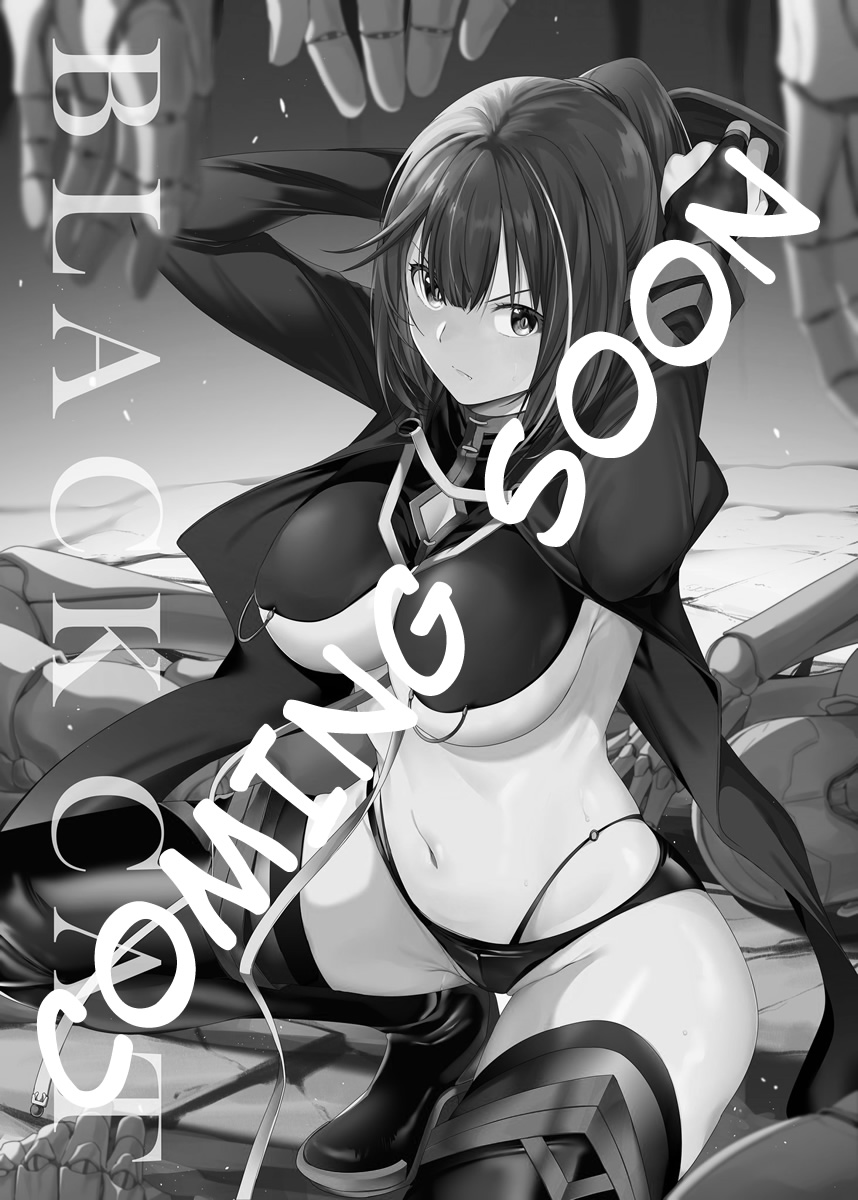
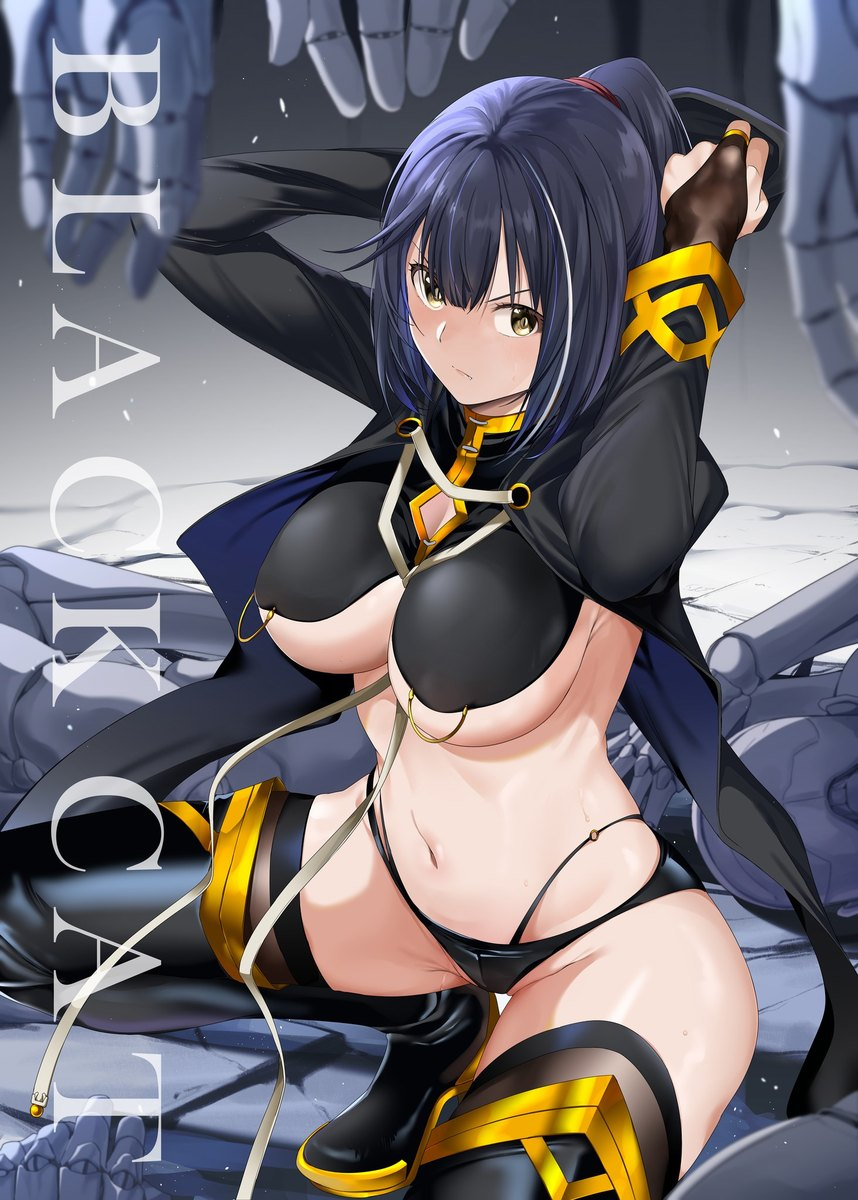
publish the little black cat's chapter

diff --git a/projects/little-witch-nobeta/assets/aniesu.min.js b/projects/little-witch-nobeta/assets/aniesu.min.js
@@ -1,1 +1,1 @@
-!function(e,i){"use strict";if(e.Aniesu={active:!1,current:{ch:1,pg:1},chapter:{1:6,2:6,3:6,4:6,5:1},createViewer:function(){if(Aniesu.viewer)return!1;var e=i.createElement("DIV");e.id="aniesu_viewer",e.innerHTML='<div id="aniesu_viewer_prev" onclick="Aniesu.prev();"></div><div id="aniesu_viewer_next" onclick="Aniesu.next();"></div><div id="aniesu_viewer_src"></div><div id="aniesu_viewer_page" tabindex="0" onclick="Aniesu.hideHeader();"></div><div id="aniesu_viewer_head"><div id="aniesu_viewer_close" onclick="Aniesu.close();" title="Close manga viewer"></div><div id="aniesu_viewer_title"><div id="aniesu_viewer_manga_title">Little Witch Nobeta</div><div id="aniesu_viewer_chapter_title">Wanderer in the Dream</div></div><a id="aniesu_viewer_twitter" href="https://twitter.com/intent/tweet?hashtags=%E3%82%A2%E3%83%8B%E3%82%A8%E3%82%B9%E3%81%AE%E6%B5%81%E5%84%80&text=Kuro%20no%20Kiseki%3A%20Agnes\'%20Style%20-%20Chapter%201&url=https%3A%2F%2Fsethclydesdale.github.io%2Fprojects%2Fagnes-style%2F%3Fchapter%3D1" target="_blank" title="Share current chapter to Twitter"></a></div>',i.body.appendChild(e),Aniesu.viewer={body:e,ch_title:i.getElementById("aniesu_viewer_chapter_title"),page:i.getElementById("aniesu_viewer_page"),prev:i.getElementById("aniesu_viewer_prev"),next:i.getElementById("aniesu_viewer_next"),src:i.getElementById("aniesu_viewer_src"),twitter:i.getElementById("aniesu_viewer_twitter")}},open:function(e,t,n){Aniesu.active=!0,Aniesu.current={ch:e,pg:t},Aniesu.preloadPages(e),e>1&&Aniesu.preloadPages(e-1),n||Aniesu.updateURL(e),Aniesu.viewer?Aniesu.viewer.body.style.display="":Aniesu.createViewer(),i.body.style.overflow="hidden",Aniesu.updateShareLink(),Aniesu.setTitle(),Aniesu.viewer.page.style.backgroundImage="url(chapters/read/chapter-"+e+"/"+t+".jpg)",Aniesu.viewer.src.innerHTML="",Aniesu.viewer.page.focus(),Aniesu.hideHeader()},close:function(e){Aniesu.active=!1,Aniesu.viewer.body.style.display="none",i.body.style.overflow="",e||Aniesu.updateURL()},setTitle:function(){Aniesu.viewer.ch_title.innerHTML=1==Aniesu.current.ch?"Wanderer in the Dream (Preview)":2==Aniesu.current.ch?"Tania's Chapter (Preview)":3==Aniesu.current.ch?"Monica's Chapter (Preview)":4==Aniesu.current.ch?"Vanessa's Chapter (Preview)":5==Aniesu.current.ch?"The Little Black Cat (Preview)":"Chapter "+Aniesu.current.ch},next:function(){Aniesu.chapter[Aniesu.current.ch]&&++Aniesu.current.pg>Aniesu.chapter[Aniesu.current.ch]&&(Aniesu.chapter[++Aniesu.current.ch]?(Aniesu.current.pg=1,Aniesu.updateShareLink(),Aniesu.setTitle(),Aniesu.updateURL(Aniesu.current.ch)):(Aniesu.current.ch--,Aniesu.current.pg--,alert("You've reached the end of the previews! You can download the full chapters on the main page by closing the manga viewer! You can do that by clicking the middle of the screen and then the X on the top left."))),Aniesu.current.pg==Aniesu.chapter[Aniesu.current.ch]&&Aniesu.preloadPages(Aniesu.current.ch+1),Aniesu.chapter[Aniesu.current.ch]&&(Aniesu.viewer.page.style.backgroundImage="url(chapters/read/chapter-"+Aniesu.current.ch+"/"+Aniesu.current.pg+".jpg)"),9==Aniesu.current.ch&&Aniesu.current.pg>1?Aniesu.viewer.src.innerHTML='<a href="'+Aniesu.art[Aniesu.current.pg]+'" target="_blank"><i class="fa">&#xf099;</i> View on Twitter</a>':Aniesu.viewer.src.innerHTML=""},prev:function(){Aniesu.chapter[Aniesu.current.ch]&&--Aniesu.current.pg<1&&(Aniesu.chapter[--Aniesu.current.ch]?(Aniesu.preloadPages(),Aniesu.current.pg=Aniesu.chapter[Aniesu.current.ch],Aniesu.updateShareLink(),Aniesu.setTitle(),Aniesu.updateURL(Aniesu.current.ch)):(Aniesu.current.ch++,Aniesu.current.pg++,alert("This goes to the previous page! Click on the right side of the screen to show the next page. Click the middle of the page to show the top bar."))),1==Aniesu.current.pg&&Aniesu.preloadPages(Aniesu.current.ch-1),Aniesu.chapter[Aniesu.current.ch]&&(Aniesu.viewer.page.style.backgroundImage="url(chapters/read/chapter-"+Aniesu.current.ch+"/"+Aniesu.current.pg+".jpg)"),9==Aniesu.current.ch&&Aniesu.current.pg>1?Aniesu.viewer.src.innerHTML='<a href="'+Aniesu.art[Aniesu.current.pg]+'" target="_blank"><i class="fa">&#xf099;</i> View on Twitter</a>':Aniesu.viewer.src.innerHTML=""},preloadPages:function(e){if(Aniesu.chapter[e])for(var i=Aniesu.chapter[e]+1;i-- >1;)Aniesu.preload("chapters/read/chapter-"+e+"/"+i+".jpg")},preload:function(e){(new Image).src=e},hideHeader:function(e){Aniesu.timeout&&clearTimeout(Aniesu.timeout),Aniesu.timeout=setTimeout(function(){Aniesu.viewer.page.blur(),delete Aniesu.timeout},3e3)},updateShareLink:function(){Aniesu.viewer.twitter.href="https://twitter.com/intent/tweet?hashtags=%E3%82%A2%E3%83%8B%E3%82%A8%E3%82%B9%E3%81%AE%E6%B5%81%E5%84%80&text=Kuro%20no%20Kiseki%3A%20Agnes'%20Style%20-%20"+(9==Aniesu.current.ch?"Bonus%20Illustrations":"Chapter%20"+Aniesu.current.ch)+"&url=https%3A%2F%2Fsethclydesdale.github.io%2Fprojects%2Fagnes-style%2F%3Fchapter%3D"+Aniesu.current.ch},updateURL:function(t){e.history&&e.history.pushState&&e.history.pushState({},i.title,e.location.href.replace(e.location.hash,"").replace(e.location.search,"")+(t?"?chapter="+t:""))}},/chapter=\d+/i.test(e.location.search)){var t=Number(e.location.search.replace(/.*?chapter=(\d+).*/i,"$1"));Aniesu.chapter[t]&&Aniesu.open(t,1,!0)}i.addEventListener("keydown",function(e){if(Aniesu.active)switch(e.key.toLowerCase()){case"left":case"arrowleft":Aniesu.prev();break;case"right":case"arrowright":Aniesu.next();break;case"esc":case"escape":Aniesu.close()}}),e.onpopstate=function(){if(/chapter=\d+/i.test(e.location.search)){var i=Number(e.location.search.replace(/.*?chapter=(\d+).*/i,"$1"));Aniesu.chapter[i]&&Aniesu.open(i,1,!0)}else Aniesu.active&&Aniesu.close(!0)}}(window,document);
+!function(e,i){"use strict";if(e.Aniesu={active:!1,current:{ch:1,pg:1},chapter:{1:6,2:6,3:6,4:6,5:6},createViewer:function(){if(Aniesu.viewer)return!1;var e=i.createElement("DIV");e.id="aniesu_viewer",e.innerHTML='<div id="aniesu_viewer_prev" onclick="Aniesu.prev();"></div><div id="aniesu_viewer_next" onclick="Aniesu.next();"></div><div id="aniesu_viewer_src"></div><div id="aniesu_viewer_page" tabindex="0" onclick="Aniesu.hideHeader();"></div><div id="aniesu_viewer_head"><div id="aniesu_viewer_close" onclick="Aniesu.close();" title="Close manga viewer"></div><div id="aniesu_viewer_title"><div id="aniesu_viewer_manga_title">Little Witch Nobeta</div><div id="aniesu_viewer_chapter_title">Wanderer in the Dream</div></div><a id="aniesu_viewer_twitter" href="https://twitter.com/intent/tweet?hashtags=%E3%82%A2%E3%83%8B%E3%82%A8%E3%82%B9%E3%81%AE%E6%B5%81%E5%84%80&text=Kuro%20no%20Kiseki%3A%20Agnes\'%20Style%20-%20Chapter%201&url=https%3A%2F%2Fsethclydesdale.github.io%2Fprojects%2Fagnes-style%2F%3Fchapter%3D1" target="_blank" title="Share current chapter to Twitter"></a></div>',i.body.appendChild(e),Aniesu.viewer={body:e,ch_title:i.getElementById("aniesu_viewer_chapter_title"),page:i.getElementById("aniesu_viewer_page"),prev:i.getElementById("aniesu_viewer_prev"),next:i.getElementById("aniesu_viewer_next"),src:i.getElementById("aniesu_viewer_src"),twitter:i.getElementById("aniesu_viewer_twitter")}},open:function(e,t,n){Aniesu.active=!0,Aniesu.current={ch:e,pg:t},Aniesu.preloadPages(e),e>1&&Aniesu.preloadPages(e-1),n||Aniesu.updateURL(e),Aniesu.viewer?Aniesu.viewer.body.style.display="":Aniesu.createViewer(),i.body.style.overflow="hidden",Aniesu.updateShareLink(),Aniesu.setTitle(),Aniesu.viewer.page.style.backgroundImage="url(chapters/read/chapter-"+e+"/"+t+".jpg)",Aniesu.viewer.src.innerHTML="",Aniesu.viewer.page.focus(),Aniesu.hideHeader()},close:function(e){Aniesu.active=!1,Aniesu.viewer.body.style.display="none",i.body.style.overflow="",e||Aniesu.updateURL()},setTitle:function(){Aniesu.viewer.ch_title.innerHTML=1==Aniesu.current.ch?"Wanderer in the Dream (Preview)":2==Aniesu.current.ch?"Tania's Chapter (Preview)":3==Aniesu.current.ch?"Monica's Chapter (Preview)":4==Aniesu.current.ch?"Vanessa's Chapter (Preview)":5==Aniesu.current.ch?"The Little Black Cat (Preview)":"Chapter "+Aniesu.current.ch},next:function(){Aniesu.chapter[Aniesu.current.ch]&&++Aniesu.current.pg>Aniesu.chapter[Aniesu.current.ch]&&(Aniesu.chapter[++Aniesu.current.ch]?(Aniesu.current.pg=1,Aniesu.updateShareLink(),Aniesu.setTitle(),Aniesu.updateURL(Aniesu.current.ch)):(Aniesu.current.ch--,Aniesu.current.pg--,alert("You've reached the end of the previews! You can download the full chapters on the main page by closing the manga viewer! You can do that by clicking the middle of the screen and then the X on the top left."))),Aniesu.current.pg==Aniesu.chapter[Aniesu.current.ch]&&Aniesu.preloadPages(Aniesu.current.ch+1),Aniesu.chapter[Aniesu.current.ch]&&(Aniesu.viewer.page.style.backgroundImage="url(chapters/read/chapter-"+Aniesu.current.ch+"/"+Aniesu.current.pg+".jpg)"),9==Aniesu.current.ch&&Aniesu.current.pg>1?Aniesu.viewer.src.innerHTML='<a href="'+Aniesu.art[Aniesu.current.pg]+'" target="_blank"><i class="fa">&#xf099;</i> View on Twitter</a>':Aniesu.viewer.src.innerHTML=""},prev:function(){Aniesu.chapter[Aniesu.current.ch]&&--Aniesu.current.pg<1&&(Aniesu.chapter[--Aniesu.current.ch]?(Aniesu.preloadPages(),Aniesu.current.pg=Aniesu.chapter[Aniesu.current.ch],Aniesu.updateShareLink(),Aniesu.setTitle(),Aniesu.updateURL(Aniesu.current.ch)):(Aniesu.current.ch++,Aniesu.current.pg++,alert("This goes to the previous page! Click on the right side of the screen to show the next page. Click the middle of the page to show the top bar."))),1==Aniesu.current.pg&&Aniesu.preloadPages(Aniesu.current.ch-1),Aniesu.chapter[Aniesu.current.ch]&&(Aniesu.viewer.page.style.backgroundImage="url(chapters/read/chapter-"+Aniesu.current.ch+"/"+Aniesu.current.pg+".jpg)"),9==Aniesu.current.ch&&Aniesu.current.pg>1?Aniesu.viewer.src.innerHTML='<a href="'+Aniesu.art[Aniesu.current.pg]+'" target="_blank"><i class="fa">&#xf099;</i> View on Twitter</a>':Aniesu.viewer.src.innerHTML=""},preloadPages:function(e){if(Aniesu.chapter[e])for(var i=Aniesu.chapter[e]+1;i-- >1;)Aniesu.preload("chapters/read/chapter-"+e+"/"+i+".jpg")},preload:function(e){(new Image).src=e},hideHeader:function(e){Aniesu.timeout&&clearTimeout(Aniesu.timeout),Aniesu.timeout=setTimeout(function(){Aniesu.viewer.page.blur(),delete Aniesu.timeout},3e3)},updateShareLink:function(){Aniesu.viewer.twitter.href="https://twitter.com/intent/tweet?hashtags=%E3%82%A2%E3%83%8B%E3%82%A8%E3%82%B9%E3%81%AE%E6%B5%81%E5%84%80&text=Kuro%20no%20Kiseki%3A%20Agnes'%20Style%20-%20"+(9==Aniesu.current.ch?"Bonus%20Illustrations":"Chapter%20"+Aniesu.current.ch)+"&url=https%3A%2F%2Fsethclydesdale.github.io%2Fprojects%2Fagnes-style%2F%3Fchapter%3D"+Aniesu.current.ch},updateURL:function(t){e.history&&e.history.pushState&&e.history.pushState({},i.title,e.location.href.replace(e.location.hash,"").replace(e.location.search,"")+(t?"?chapter="+t:""))}},/chapter=\d+/i.test(e.location.search)){var t=Number(e.location.search.replace(/.*?chapter=(\d+).*/i,"$1"));Aniesu.chapter[t]&&Aniesu.open(t,1,!0)}i.addEventListener("keydown",function(e){if(Aniesu.active)switch(e.key.toLowerCase()){case"left":case"arrowleft":Aniesu.prev();break;case"right":case"arrowright":Aniesu.next();break;case"esc":case"escape":Aniesu.close()}}),e.onpopstate=function(){if(/chapter=\d+/i.test(e.location.search)){var i=Number(e.location.search.replace(/.*?chapter=(\d+).*/i,"$1"));Aniesu.chapter[i]&&Aniesu.open(i,1,!0)}else Aniesu.active&&Aniesu.close(!0)}}(window,document);

diff --git a/projects/little-witch-nobeta/index.html b/projects/little-witch-nobeta/index.html
@@ -36,7 +36,7 @@
     <div id="content">
       <div class="content-block" style="padding-bottom:0;">
         <h2 id="main-title" class="title center"><img class="main-title-image" src="assets/images/title_1.png">Little Witch Nobeta Manga Translations<img id="change_image" class="main-title-image" src="assets/images/title_2.png"></h2>
-        <p id="main-desc">Here you can preview and download English versions for the official Little Witch Nobeta manga chapters! These English versions were made using the official scripts provided by the developers with edits and retranslations where necessary. I hope that you enjoy reading them!<br>If you have any questions, comments, or suggestions, feel free to <a href="https://twitter.com/SethC1995" target="_blank">contact me on Twitter</a>. You can also follow me for updates on new chapter releases as well as progress.</p>
+        <p id="main-desc">Here you can preview and download English versions for the official Little Witch Nobeta manga chapters! These English versions were made using the official scripts provided by the developers with edits and retranslations where necessary. I hope that you enjoy reading them!<br>If you have any questions, comments, or suggestions, feel free to <a href="https://twitter.com/SethC1995" target="_blank">contact me on Twitter</a>.</p>
       </div>
 
       <script>
@@ -91,13 +91,16 @@
             <h2 class="chapter-title" id="chapter-kitty">The Little Black Cat</h2>
             <div class="chapter-image"><img src="assets/images/chapter_kitty.png" alt="Kitty"></div>
             <div class="reading-sources">
-              <!--<em style="display:inline-block; margin-top:10px; font-weight:bold; font-size:16px;"><img src="assets/images/kittybeta.png" style="vertical-align:-15px;" alt="I hate my life">Coming Soon...</em>-->
-              <em style="display:inline-block; margin-top:10px; font-weight:bold; font-size:16px; color:#933;"><img src="assets/images/nobearta.png" style="vertical-align:-15px;" alt="Nobearta">Currently Editing...</em>
+              <a class="preview" onclick="Aniesu.open(5, 1)" title="Preview this chapter">Preview</a>
+              <a class="download" href="https://drive.google.com/file/d/1bGqIKO9OXces8Wwd3T3Y8ruPNYQFcrHv/view?usp=sharing" target="_blank" title="Download this chapter">Download</a>
             </div>
           </div>
         </div>
       </div>
     </div>
+    
+    <!--<em style="display:inline-block; margin-top:10px; font-weight:bold; font-size:16px;"><img src="assets/images/kittybeta.png" style="vertical-align:-15px;" alt="I hate my life">Coming Soon...</em>-->
+    <!--<em style="display:inline-block; margin-top:10px; font-weight:bold; font-size:16px; color:#933;"><img src="assets/images/nobearta.png" style="vertical-align:-15px;" alt="Nobearta">Currently Editing...</em>-->
     
     <div class="footer-content"><img src="assets/images/nobeta.png"></div>
     <div class="footer-content">&copy;PUPUYA GAMES, SIMON CREATIVE Inc.</div>

diff --git a/projects/little-witch-nobeta/assets/aniesu.js b/projects/little-witch-nobeta/assets/aniesu.js
@@ -18,7 +18,7 @@
       2 : 6,
       3 : 6,
       4 : 6,
-      5 : 1,
+      5 : 6,
     },
     
     
